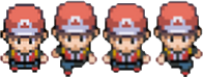
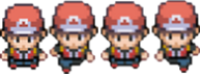
new character images

diff --git a/res/js/main.js b/res/js/main.js
@@ -209,7 +209,7 @@ function animation() {
 
   character.moving = false;
   if (keys.w.pressed) {
-    characterImage.src = "./res/img/characters/characterUp.png";
+    characterImage.src = "./res/img/characters/characterUpTest.png";
     character.moving = true;
     for (let i = 0; i < boundaries.length; i++) {
       const boundary = boundaries[i];
@@ -317,7 +317,7 @@ function animation() {
 
     // Moving RIGHT
   } else if (keys.d.pressed) {
-    characterImage.src = "./res/img/characters/characterRight.png";
+    characterImage.src = "./res/img/characters/characterRightTest.png";
     character.moving = true;
     for (let i = 0; i < boundaries.length; i++) {
       const boundary = boundaries[i];
